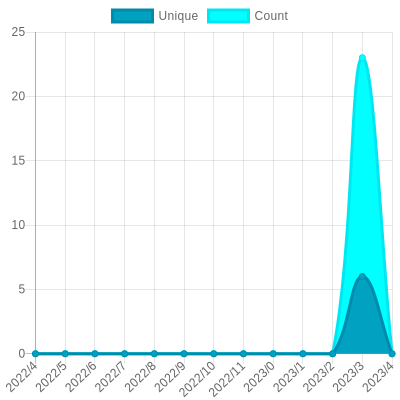
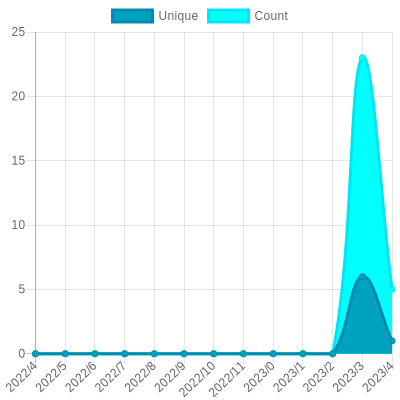
Update views

Changed region(s): [[0.93, 0.21, 0.99, 0.9], [0.87, 0.15, 0.93, 0.21]]

diff --git a/readme/150410385/year.md b/readme/150410385/year.md
@@ -23,10 +23,10 @@
 			<code>2022/5/1</code>
 		</td>
 		<td>
-			<code>0</code>
+			<code>1</code>
 		</td>
 		<td>
-			<code>0</code>
+			<code>5</code>
 		</td>
 	</tr>
 	<tr>
@@ -164,7 +164,7 @@
 </table>
 
 </details>
-<small><i>Last updated on 2022/5/4 12:05 PM UTC</i></small>
+<small><i>Last updated on 2022/5/4 6:03 PM UTC</i></small>
 
 ## ✂Copy and 📋 Paste
 ### SVG Badge

diff --git a/README.md b/README.md
@@ -37,7 +37,7 @@ The project created and maintained by [gayanvoice](https://github.com/gayanvoice
 	</tr>
 </table>
 
-<small><i>Last updated on 2022/5/4 12:05 PM UTC</i></small>
+<small><i>Last updated on 2022/5/4 6:03 PM UTC</i></small>
 
 ## ✂Copy and 📋 Paste
 ### Total Views Badge
